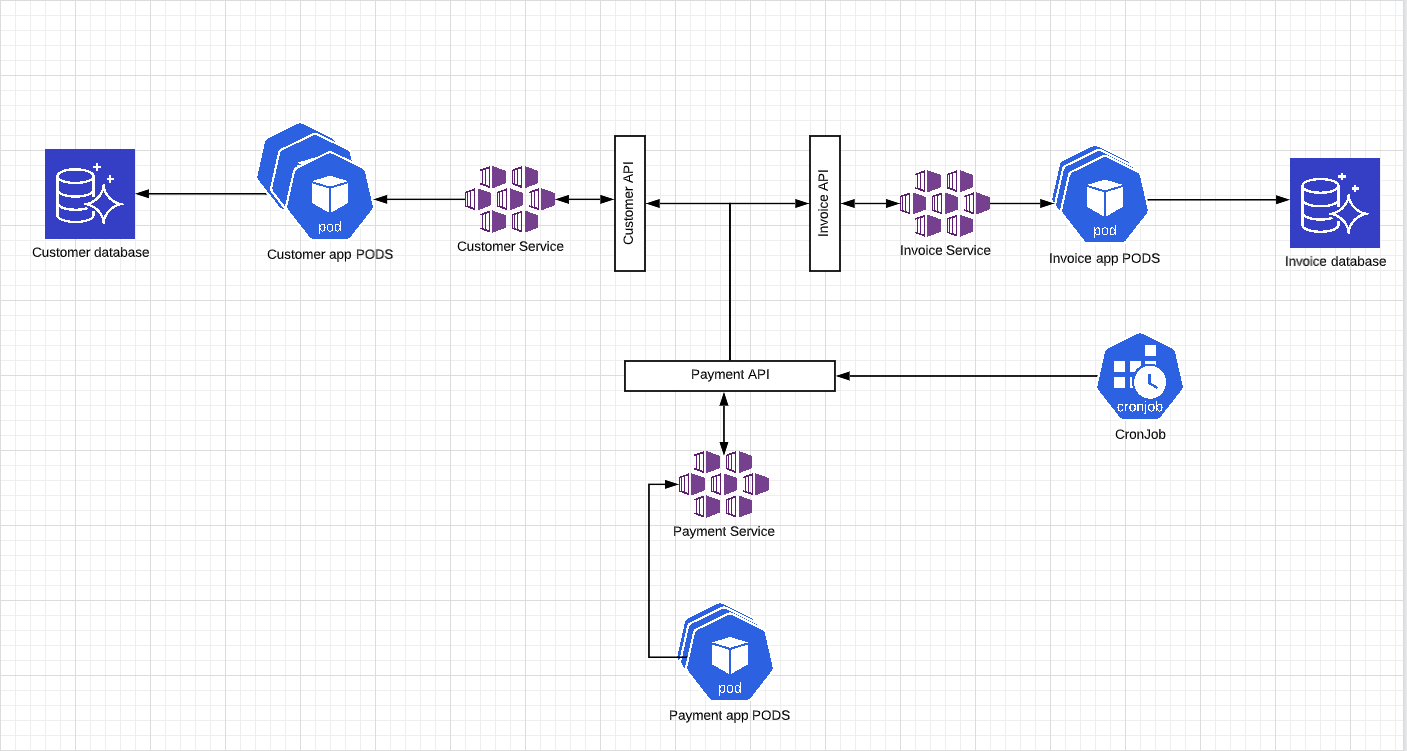
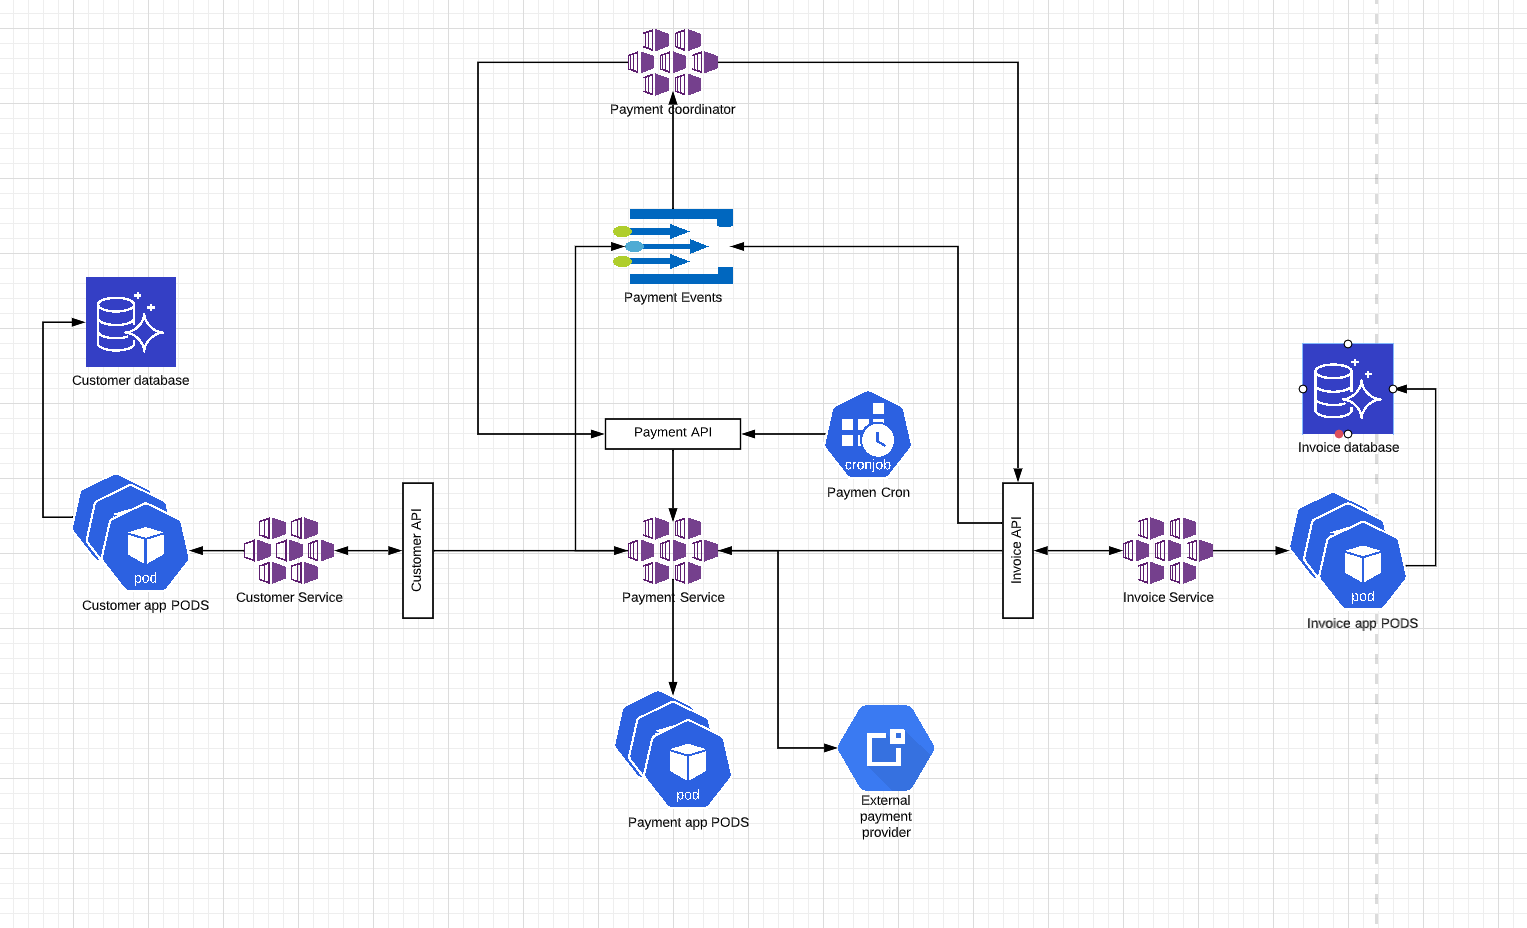
1.5.1: improve error handling and explain more the future improvement

diff --git a/pleo-antaeus-core/src/main/kotlin/io/pleo/antaeus/core/services/BillingService.kt b/pleo-antaeus-core/src/main/kotlin/io/pleo/antaeus/core/services/BillingService.kt
@@ -1,10 +1,13 @@
 package io.pleo.antaeus.core.services
 
+import com.github.michaelbull.retry.retry
+import com.github.michaelbull.retry.policy.fullJitterBackoff
 import io.github.resilience4j.circuitbreaker.CircuitBreaker
 import io.github.resilience4j.kotlin.circuitbreaker.circuitBreaker
 import io.pleo.antaeus.core.constants.NUMBER_OF_ATTEMPTS
 import io.pleo.antaeus.core.exceptions.CurrencyMismatchException
 import io.pleo.antaeus.core.exceptions.CustomerNotFoundException
+import io.pleo.antaeus.core.exceptions.DatabaseException
 import io.pleo.antaeus.core.exceptions.NetworkException
 import io.pleo.antaeus.core.external.PaymentProvider
 import io.pleo.antaeus.data.constants.DEFAULT_PAGE_SIZE
@@ -75,7 +78,7 @@ class BillingService(
             .map { processInvoice(it) }
             .retryWhen() { cause, attempt ->
                 delay(getMilisDelay(attempt))
-                attempt < NUMBER_OF_ATTEMPTS && cause is NetworkException
+                shouldRetry(attempt, cause)
             }
             .circuitBreaker(CircuitBreaker.ofDefaults("invoicePayment"))
             .catch {
@@ -108,7 +111,11 @@ class BillingService(
 
     private fun getMilisDelay(attempt: Long) = (MIN_DELAY * attempt).coerceAtMost(MAX_DELAY)
 
-    private fun updateInvoiceStatus(id: Int, status: InvoiceStatus = InvoiceStatus.PAID) = invoiceService.updateStatus(id, status)
+    private fun updateInvoiceStatus(id: Int, status: InvoiceStatus = InvoiceStatus.PAID) = runBlocking {
+        retry(fullJitterBackoff(base = 10L, max = 1000L)) {
+            invoiceService.updateStatus(id, status)
+        }
+    }
 
     private fun paymentResponse2InvoiceStatus(paymentResponse: Boolean): InvoiceStatus = when (paymentResponse) {
         true -> InvoiceStatus.PAID
@@ -119,5 +126,11 @@ class BillingService(
         is CustomerNotFoundException -> InvoiceStatus.MISSING_CUSTOMER
         is CurrencyMismatchException -> InvoiceStatus.CURRENCY_MISMATCH
         else -> InvoiceStatus.PENDING
+    }
+
+    private fun shouldRetry(attempt: Long, cause: Throwable): Boolean {
+        val isExpectedException = cause is NetworkException
+        val retriesOverThreshold = attempt >= NUMBER_OF_ATTEMPTS
+        return !retriesOverThreshold && isExpectedException
     }
 }

diff --git a/pleo-antaeus-core/src/test/kotlin/io/pleo/antaeus/core/services/BillingServiceTest.kt b/pleo-antaeus-core/src/test/kotlin/io/pleo/antaeus/core/services/BillingServiceTest.kt
@@ -5,6 +5,7 @@ import io.mockk.mockk
 import io.mockk.verify
 import io.pleo.antaeus.core.exceptions.CurrencyMismatchException
 import io.pleo.antaeus.core.exceptions.CustomerNotFoundException
+import io.pleo.antaeus.core.exceptions.DatabaseException
 import io.pleo.antaeus.core.exceptions.NetworkException
 import io.pleo.antaeus.core.external.PaymentProvider
 import io.pleo.antaeus.data.constants.DEFAULT_PAGE_SIZE
@@ -159,6 +160,22 @@ class BillingServiceTest {
         }
     }
 
+    @Test
+    fun `should try and retry when database exception calling payment provider and mark as paid`() {
+        val invoice = anInvoice(1, InvoiceStatus.PENDING)
+        expectDatabaseExceptionAndSuccess(invoice)
+
+        val result = billingService.processInvoice(invoice.id)
+
+        Assertions.assertEquals(true, result)
+        verify(exactly = 2) {
+            invoiceService.updateStatus(invoice.id, InvoiceStatus.PAID)
+        }
+        verify(exactly = 1) {
+            paymentProvider.charge(invoice)
+        }
+    }
+
     private fun expectListOfPendingInvoicesSuitableForBeingPaid(status: InvoiceStatus): InvoicePage {
         val expectedInvoices = aPageOfInvoices(aListOfInvoices(status = status), true)
         every {
@@ -291,6 +308,21 @@ class BillingServiceTest {
         every {
             invoiceService.updateStatus(invoice.id, InvoiceStatus.PAID)
         } returns invoice
+    }
+
+    private fun expectDatabaseExceptionAndSuccess(invoice: Invoice) {
+        every {
+            paymentProvider.charge(invoice)
+        } returns true
+        every {
+            invoiceService.fetch(invoice.id)
+        } returns invoice
+        every {
+            invoiceService.updateStatus(invoice.id, InvoiceStatus.PENDING)
+        } returns invoice
+        every {
+            invoiceService.updateStatus(invoice.id, InvoiceStatus.PAID)
+        } throws DatabaseException() andThen invoice
     }
 
     private fun expectNetworkExceptionAlways(invoice: Invoice) {

diff --git a/pleo-antaeus-core/src/main/kotlin/io/pleo/antaeus/core/exceptions/DatabaseException.kt b/pleo-antaeus-core/src/main/kotlin/io/pleo/antaeus/core/exceptions/DatabaseException.kt
@@ -1,0 +1,3 @@
+package io.pleo.antaeus.core.exceptions
+
+class DatabaseException : Exception("A database error happened please try again.")

diff --git a/README.md b/README.md
@@ -137,10 +137,20 @@ Due to the time limitation, I couldn't apply all the improvements I would like t
 * Extend unit test coverage to the rest of components
 * Create a set of Acceptance tests to cover the behaviour of the billing service
 * Move to in-memory database to a real database, using postgres as solution
+* Improve database error handling
 * In order to improve the [3 observability pillars](https://www.oreilly.com/library/view/distributed-systems-observability/9781492033431/ch04.html):
   * Improve logging to have better understanding of the services
   * Create a set of custom metrics per service, so they can be used for the observability of the services and for the scalability
   * Include some tracing markers to the calls between services to be able to trace the interaction between them
+
+### Error handling
+Due to time limitations, I couldn't put so much effort in handling database errors. The scenario to cover is once executed the payment an error occurred when the process tries to update database status of the payment
+
+For that scenario I've used the most simple approach, retry unlimited times the update in the database. A very rough approach and not production ready.
+
+For future improvements, I would investigate new paths:
+* Can we do a "rollback" in the payment provider? If so, we can handle the update status errors by doing rollbacks in the payment provider
+* Add an extra layer of complexity by defining event system and using [SAGA](https://www.baeldung.com/cs/saga-pattern-microservices) pattern to handle a distributed transaction. See new architecture proposal [Antaeus v2.0](Architecture_2_0.md) for more details
 
 ## Conclusion
 I've enjoyed a lot the challenge. Kotlin is a great language and I was looking the moment to start working with it. 

diff --git a/Architecture_2_0.md b/Architecture_2_0.md
@@ -27,6 +27,15 @@ Another changes we can apply:
   * Expose a REST API to access the service
   * Expose a gRPC API to internal communication
 
+## Error handling
+Having in mind the payment process can be handled as a distributed transaction, a way to handle the errors is by using the SAGA pattern, in this case a orchestrated version of the pattern. The process flow could be
+1. The payment process start by a scheduled job
+2. The payment service will retrieve the list of invoices to process (by calling the invoice API and customer API)
+3. For each invoice, the payment service will call the external payment provider. The result of the operation will be published in a distributed messaging system like [Kafka](https://kafka.apache.org/) or [AWS Kinesis](https://aws.amazon.com/kinesis/)
+4. There will be an orchestrator that will listen the events in the topic. Once it receives an event of payment result, the orchestrator will call the invoice API to update the invoice status
+5. If the invoice API fails and cannot update the status, the invoice service will publish an event in the topic, with that information
+6. The orchestrator will listen the error event and call the payment API to do a rollback over the invoice
+
 ## Storage solution
 For invoice service, having in mind that will be the larger data storage, I would recommend to use [AWS Auora](https://aws.amazon.com/rds/aurora/)
 

diff --git a/CHANGELOG.md b/CHANGELOG.md
@@ -1,5 +1,14 @@
 # CHANGELOG
 
+## 1.5.1
+* Improve database error handling
+
+## 1.5.0
+* Improve scheduler perfomance
+
+## 1.4.0
+* Add ktlint and fix linting errors
+
 ## 1.3.1
 * fix issue in customer payments endpoint
 * add new endpoint to pay all invoices for a specific type for a client
